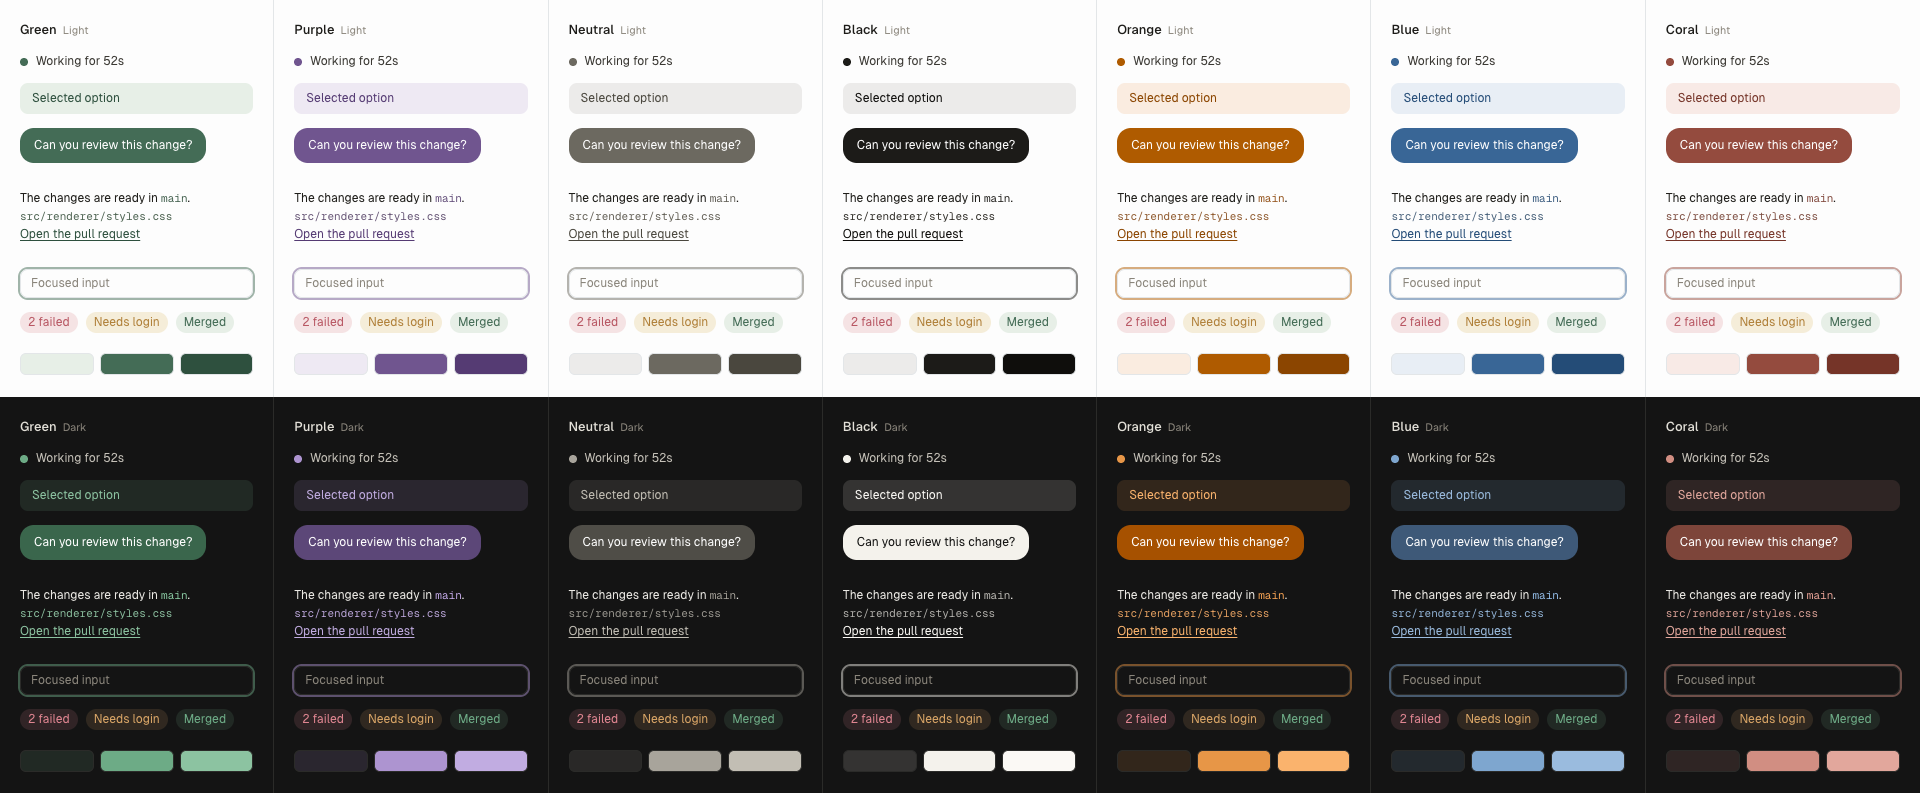
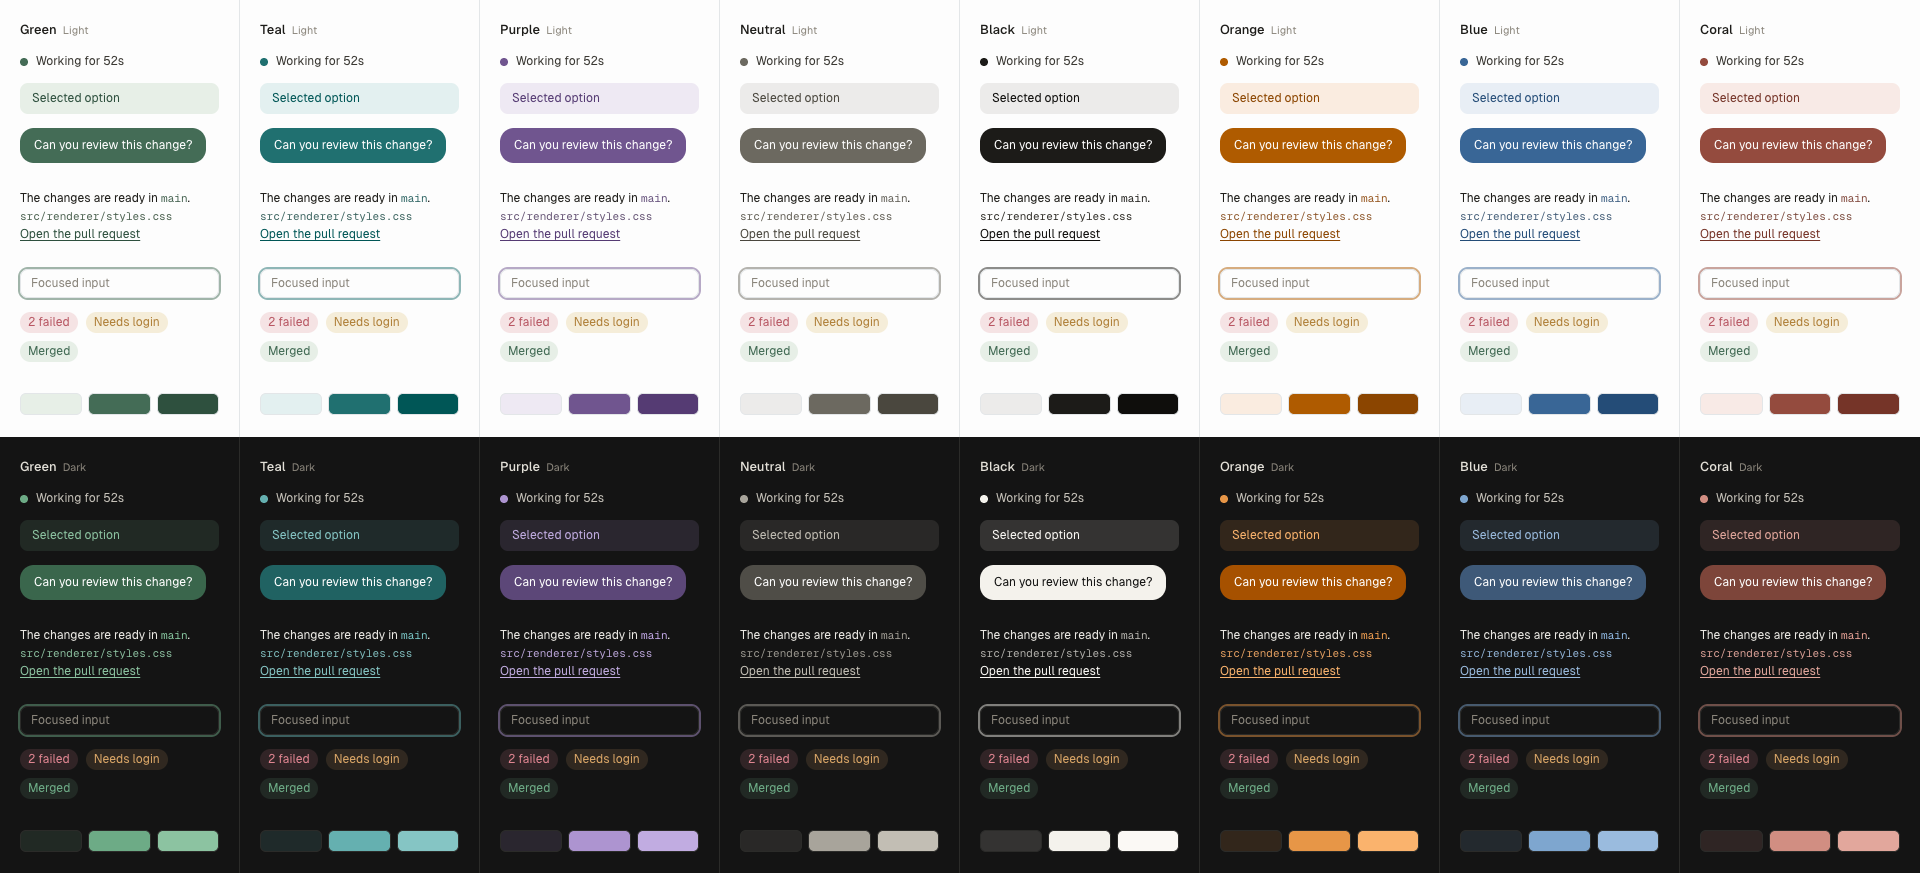
feat(theme): add a teal accent tint
Sits between sage and blue on the wheel, where the family had a gap, on the
same lightness ladder as the others: #207070 on paper, #65b0b0 on charcoal,
#206262 for the dark bubble. Listed second in Settings, after green. The
phone carries its own pair in Theme.swift like the other tints.

diff --git a/ios/Argmax/Sources/Design/Theme.swift b/ios/Argmax/Sources/Design/Theme.swift
@@ -140,7 +140,7 @@ extension UIColor {
 
 // MARK: - Accent
 
-/// The desktop's seven tints, in the order Settings → Appearance lists them
+/// The desktop's eight tints, in the order Settings → Appearance lists them
 /// (`src/renderer/lib/accent.ts`). One accent is live at a time and it marks
 /// exactly two things: the running work, and the primary action.
 ///
@@ -148,6 +148,7 @@ extension UIColor {
 /// orange, and it is the phone's whole identity on the pairing screen.
 enum AccentTint: String, CaseIterable, Identifiable, Sendable {
     case green
+    case teal
     case purple
     case neutral
     case black
@@ -162,6 +163,7 @@ enum AccentTint: String, CaseIterable, Identifiable, Sendable {
     var label: String {
         switch self {
         case .green: return "Green"
+        case .teal: return "Teal"
         case .purple: return "Purple"
         case .neutral: return "Neutral"
         case .black: return "Black"
@@ -176,6 +178,7 @@ enum AccentTint: String, CaseIterable, Identifiable, Sendable {
     var crestColor: UIColor {
         switch self {
         case .green: return Theme.dynamic(light: 0x2E_50_3E, dark: 0x55_88_6C)
+        case .teal: return Theme.dynamic(light: 0x0B_56_56, dark: 0x82_CC_CA)
         case .purple: return Theme.dynamic(light: 0x46_28_7B, dark: 0x83_66_B3)
         case .neutral: return Theme.dynamic(light: 0x4A_47_3E, dark: 0xC2_BE_B4)
         case .black: return Theme.dynamic(light: 0x0F_0E_0C, dark: 0xFB_F9_F5)
@@ -188,6 +191,7 @@ enum AccentTint: String, CaseIterable, Identifiable, Sendable {
     var uiColor: UIColor {
         switch self {
         case .green: return Theme.dynamic(light: 0x44_6C_56, dark: 0x6D_AB_86)
+        case .teal: return Theme.dynamic(light: 0x1F_74_74, dark: 0x5C_B4_B3)
         case .purple: return Theme.dynamic(light: 0x61_3E_9A, dark: 0x71_4F_B0)
         case .neutral: return Theme.dynamic(light: 0x6C_69_60, dark: 0xA8_A4_9B)
         case .black: return Theme.dynamic(light: 0x1C_1B_18, dark: 0xF4_F2_EC)

diff --git a/docs/design/accents/index.html b/docs/design/accents/index.html
@@ -28,7 +28,7 @@
       .frames iframe { border: 0; width: 100%; height: 100%; display: block; }
 
       /* One theme row: seven accent columns. */
-      .row { display: grid; grid-template-columns: repeat(7, 1fr); min-height: 100dvh; }
+      .row { display: grid; grid-template-columns: repeat(8, 1fr); min-height: 100dvh; }
       .cell {
         padding: 22px 20px;
         border-right: 1px solid var(--line);
@@ -105,7 +105,7 @@
       const params = new URLSearchParams(location.search);
       const theme = params.get("theme");
       const set = params.get("set") ?? "";
-      const accents = ["green", "purple", "neutral", "black", "orange", "blue", "coral"];
+      const accents = ["green", "teal", "purple", "neutral", "black", "orange", "blue", "coral"];
 
       if (!theme) {
         // Outer page: light row above dark row, same set in both.

diff --git a/src/renderer/styles/mobile.css b/src/renderer/styles/mobile.css
@@ -1065,6 +1065,10 @@ html:has(.mobile-shell[data-embed]) body,
   --accent-swatch-color: #af5b00;
 }
 
+.mobile-accent-chip[data-accent-id="teal"] {
+  --accent-swatch-color: #207070;
+}
+
 .mobile-accent-chip[data-accent-id="blue"] {
   --accent-swatch-color: #396696;
 }
@@ -1079,6 +1083,10 @@ html:has(.mobile-shell[data-embed]) body,
 
 :root[data-theme="dark"] .mobile-accent-chip[data-accent-id="orange"] {
   --accent-swatch-color: #e79647;
+}
+
+:root[data-theme="dark"] .mobile-accent-chip[data-accent-id="teal"] {
+  --accent-swatch-color: #65b0b0;
 }
 
 :root[data-theme="dark"] .mobile-accent-chip[data-accent-id="blue"] {

diff --git a/src/renderer/styles/settings-controls.css b/src/renderer/styles/settings-controls.css
@@ -256,6 +256,11 @@
   --accent-swatch-soft: #faece0;
 }
 
+.accent-picker-chip[data-accent-id="teal"] {
+  --accent-swatch-color: #207070;
+  --accent-swatch-soft: #e3f0f0;
+}
+
 .accent-picker-chip[data-accent-id="blue"] {
   --accent-swatch-color: #396696;
   --accent-swatch-soft: #e8eef5;
@@ -272,6 +277,10 @@
 
 :root[data-theme="dark"] .accent-picker-chip[data-accent-id="orange"] {
   --accent-swatch-color: #e79647;
+}
+
+:root[data-theme="dark"] .accent-picker-chip[data-accent-id="teal"] {
+  --accent-swatch-color: #65b0b0;
 }
 
 :root[data-theme="dark"] .accent-picker-chip[data-accent-id="blue"] {

diff --git a/src/renderer/styles/tokens.css b/src/renderer/styles/tokens.css
@@ -695,6 +695,12 @@
   --accent-deep: #8b4500;
 }
 
+:root[data-accent="teal"] {
+  --accent: #207070;
+  --accent-soft: #e3f0f0;
+  --accent-deep: #005656;
+}
+
 :root[data-accent="blue"] {
   --accent: #396696;
   --accent-soft: #e8eef5;
@@ -754,6 +760,14 @@
   --accent-soft: rgba(126, 166, 207, 0.14);
   --accent-deep: #9abbde;
   --user-message-bg: #3e5978;
+  --user-message-fg: #ffffff;
+}
+
+:root[data-theme="dark"][data-accent="teal"] {
+  --accent: #65b0b0;
+  --accent-soft: rgba(101, 176, 176, 0.14);
+  --accent-deep: #85c5c4;
+  --user-message-bg: #206262;
   --user-message-fg: #ffffff;
 }
 

diff --git a/src/renderer/styles/accentTokens.test.ts b/src/renderer/styles/accentTokens.test.ts
@@ -46,7 +46,7 @@ function fontWeight(rule: string): number {
 }
 
 describe("CSS contracts that cannot be exercised in jsdom", () => {
-  it.each(["purple", "orange", "blue", "coral"])("keeps %s highlights and bubbles readable in both themes", (accent) => {
+  it.each(["teal", "purple", "orange", "blue", "coral"])("keeps %s highlights and bubbles readable in both themes", (accent) => {
     const tokens = readSource("src/renderer/styles/tokens.css");
     for (const theme of ["light", "dark"]) {
       const base = cssRuleBody(tokens, theme === "dark" ? ':root[data-theme="dark"]' : ":root");

diff --git a/src/renderer/lib/accent.ts b/src/renderer/lib/accent.ts
@@ -1,5 +1,6 @@
 export type AccentId =
   | "green"
+  | "teal"
   | "purple"
   | "neutral"
   | "black"
@@ -26,6 +27,12 @@ export const ACCENT_OPTIONS: AccentOption[] = [
     label: "Green",
     hint: "The original Argmax tint. Code additions and status greens stay semantic either way.",
     swatch: { color: "#446c56", soft: "#e7efe7" }
+  },
+  {
+    id: "teal",
+    label: "Teal",
+    hint: "Deep water between the sage and the blue. Cool, quiet, and never a status colour.",
+    swatch: { color: "#207070", soft: "#e3f0f0" }
   },
   {
     id: "purple",

diff --git a/ios/Argmax/Tests/ThemeTests.swift b/ios/Argmax/Tests/ThemeTests.swift
@@ -51,6 +51,7 @@ final class ThemeTests: XCTestCase {
     func testEveryAccentTintResolvesInBothAppearances() {
         let expected: [AccentTint: (String, String)] = [
             .green: ("#446C56", "#6DAB86"),
+            .teal: ("#1F7474", "#5CB4B3"),
             .purple: ("#613E9A", "#714FB0"),
             .neutral: ("#6C6960", "#A8A49B"),
             .black: ("#1C1B18", "#F4F2EC"),

diff --git a/ios/Argmax/Sources/Settings/SettingsScreen.swift b/ios/Argmax/Sources/Settings/SettingsScreen.swift
@@ -255,7 +255,7 @@ struct Segmented<Option: Hashable & Identifiable>: View {
     }
 }
 
-/// The desktop's seven tints as swatches. A colour is the only honest label
+/// The desktop's eight tints as swatches. A colour is the only honest label
 /// for a colour, so the chips carry no text — the name goes to VoiceOver.
 struct AccentChips: View {
     @Binding var selection: AccentTint

diff --git a/docs/styling.md b/docs/styling.md
@@ -29,8 +29,8 @@ Keep individual surface files under 1,000 lines. Aggregator files should only co
   - Ink uses `#e3e0d8` rather than pure white to avoid bloom on dark backgrounds.
   - `--chip-ink` is the ink for the composers' secondary chips (project, branch, permission mode, workspace mode, effort). Light composers locally deepen `--muted` to `#716c63` and `--muted-strong` to `#49463f`, with both still following ink strength. Placeholder text and utility controls use the former, the model label uses the latter wherever it stands bare (settings), and secondary chips mix them at 65% muted. Inside the composers' model pill the model label takes `--text` instead: it is the headline of the only filled control in the row, and `--muted-strong` on a fill reads recessed. This improves readability across both composers without changing the rest of the app's palette. Dark aliases chip ink to `--muted`, which already clears 4.5:1 on `--composer-surface`.
   - Rendered prose is the exception: `--prose-ink` / `--prose-ink-strong` (agent answers, plan cards, file previews) run *brighter* than `--text` in dark, because bloom is a weight problem at label size and prose already offsets it with `--weight-prose` and an open line box. `--prose-ink-strong` must stay on the far side of `--prose-ink` from the page in both themes, or bold prose reads dimmer than the body around it. Both dark values sit one step off paper-white (`#ebe9e4` / `#f5f3ed`, OKLCH C 0.008 / H 90) rather than at it; the levels were compared side by side in `docs/design/prose-ink`. Agent paragraphs are painted by `.chat-bubble p`, which beats the inherited `.markdown` ink, so both rules name the same token.
-- **Accent Tints:** Settings → Appearance (desktop) and the Remote menu (phone) allow selecting `green`, `purple`, `neutral`, `black`, `orange`, `blue`, or `coral` (`<html data-accent="...">`, stored in `localStorage.argmax.accent.tint`). The phone keeps its own copy: appearance is per browser, not synced from the desktop. `coral` uses a warm red hue, while errors retain their rose tint. Color alone does not distinguish risk from accent chrome. `black` is high-contrast ink, distinct from the quiet gray of `neutral`: black on paper and cream on charcoal, so chrome stays visible in both themes. Use `--accent`, `--accent-soft`, and `--accent-deep` for interactive highlights, focus rings, brand chrome, and running indicators (`WorkingNest`). A running sidebar row with a custom icon is the exception: its nest uses the icon's `--session-icon-*` color so the temporary animation keeps the row's identity. User-message bubbles read `--user-message-bg` / `--user-message-fg`: in dark, green/purple/orange/blue/coral/neutral use a deeper fill with white ink so `--accent` can stay lifted for chrome. Black fills the bubble with the cream accent and charcoal ink.
-  - Purple, orange, blue, and coral use restrained saturation with deeper accents on paper and lifted accents on charcoal. Dark message fills stay separate from small highlights. Appearance swatches follow the theme. The family shares one OKLCH lightness per role (light accents L 0.50, dark accents L 0.71, dark bubbles L 0.44–0.47, deeps a step past the accent in each theme's contrast direction, green's dark deep included) and varies only chroma and hue, so no tint is the loud column. Orange is the one exception: at the family lightness it is brown, so it runs at the top of the sRGB orange gamut (L 0.56 on paper, white ink at 4.9:1) and is allowed to be the warmest column; coral sits at hue 32, a step off rose, so a coral bubble and a failed check never share a colour. The seven are compared side by side in `docs/design/accents`. This follows the role separation in [Radix Colors](https://www.radix-ui.com/colors/docs/palette-composition/understanding-the-scale) and [Atlassian color tokens](https://atlassian.design/foundations/color).
+- **Accent Tints:** Settings → Appearance (desktop) and the Remote menu (phone) allow selecting `green`, `teal`, `purple`, `neutral`, `black`, `orange`, `blue`, or `coral` (`<html data-accent="...">`, stored in `localStorage.argmax.accent.tint`). The phone keeps its own copy: appearance is per browser, not synced from the desktop. `coral` uses a warm red hue, while errors retain their rose tint. Color alone does not distinguish risk from accent chrome. `black` is high-contrast ink, distinct from the quiet gray of `neutral`: black on paper and cream on charcoal, so chrome stays visible in both themes. Use `--accent`, `--accent-soft`, and `--accent-deep` for interactive highlights, focus rings, brand chrome, and running indicators (`WorkingNest`). A running sidebar row with a custom icon is the exception: its nest uses the icon's `--session-icon-*` color so the temporary animation keeps the row's identity. User-message bubbles read `--user-message-bg` / `--user-message-fg`: in dark, green/purple/orange/blue/coral/neutral use a deeper fill with white ink so `--accent` can stay lifted for chrome. Black fills the bubble with the cream accent and charcoal ink.
+  - Teal, purple, orange, blue, and coral use restrained saturation with deeper accents on paper and lifted accents on charcoal. Dark message fills stay separate from small highlights. Appearance swatches follow the theme. The family shares one OKLCH lightness per role (light accents L 0.50, dark accents L 0.71, dark bubbles L 0.44–0.47, deeps a step past the accent in each theme's contrast direction, green's dark deep included) and varies only chroma and hue, so no tint is the loud column. Orange is the one exception: at the family lightness it is brown, so it runs at the top of the sRGB orange gamut (L 0.56 on paper, white ink at 4.9:1) and is allowed to be the warmest column; coral sits at hue 32, a step off rose, so a coral bubble and a failed check never share a colour. The seven are compared side by side in `docs/design/accents`. This follows the role separation in [Radix Colors](https://www.radix-ui.com/colors/docs/palette-composition/understanding-the-scale) and [Atlassian color tokens](https://atlassian.design/foundations/color).
 - **User bubble tint:** Settings → Appearance → Your message bubbles (desktop) and the Remote menu's matching control (phone) take user bubbles off the accent (`<html data-user-bubble="accent" | "neutral">`, stored in `localStorage.argmax.chat.bubbleTint`). `neutral` fills with `--panel-sunken` on paper and `--panel-soft` in dark, so an un-tinted bubble sits one surface step off the page rather than carrying a fill of its own. The two `[data-user-bubble="neutral"]` blocks must stay last in [tokens.css](../src/renderer/styles/tokens.css) — they tie the dark per-accent blocks on specificity, so source order is what makes the opt-out win. Filled transcript cards share `--radius-2xl` with `.session-input` and `.composer`: `.chat-bubble.user`, `.plan-card`, and the subagent instructions/result cards. The live question is a different case: `.question-dock` is rendered with `.session-input` on the same element, so it is the composer's surface exactly rather than a lookalike, and only the panel's contents are styled separately. Its rows cannot use `--row-selected`: that token is tuned for rows on `--panel`, and the composer surface is already a step above `--panel`, so in dark the two land one value apart (`#212121` on `#202020`) and the selection disappears. `--question-dock-row` takes the same step measured from `--composer-surface` instead.
 - **Typography:**
   - Chrome: `--font-ui` (Geist Sans default).

diff --git a/docs/design/accents/README.md b/docs/design/accents/README.md
@@ -18,7 +18,7 @@ the soft / accent / deep steps as bare swatches.
 
 `?set=previous` overlays the values shipped before 2026-09-12 so the two can
 be flicked between. `previous.png` and `shipped.png` are those two captures
-(`scripts/ui-screenshot.mjs --url … --width 1920 --height 880`).
+(`scripts/ui-screenshot.mjs --url … --width 1920 --height 960`).
 
 ## Decision (2026-09-12)
 
@@ -64,6 +64,7 @@ What that fixed:
 | accent | light `--accent` | light `--accent-deep` | dark `--accent` | dark `--accent-deep` | dark bubble |
 | --- | --- | --- | --- | --- | --- |
 | green | `#446c56` L.50 C.058 H159 | `#2e503e` | `#6dab86` L.69 | `#8cc3a1` L.77 | `#3a664c` L.47 |
+| teal | `#207070` L.50 C.075 H195 | `#005656` | `#65b0b0` L.71 | `#85c5c4` L.78 | `#206262` L.46 |
 | purple | `#70558f` L.50 C.094 H305 | `#553b73` | `#ad94d0` L.71 | `#c1ace1` L.78 | `#5c4778` L.44 |
 | neutral | `#6c6960` L.52 C.014 H92 | `#4a473e` | `#a8a49b` L.72 | `#c2beb4` L.80 | `#4f4d47` L.42 |
 | orange | `#af5b00` L.56 C.137 H56 | `#8b4500` | `#e79647` L.74 | `#fab36d` L.82 | `#a65100` L.53 |
